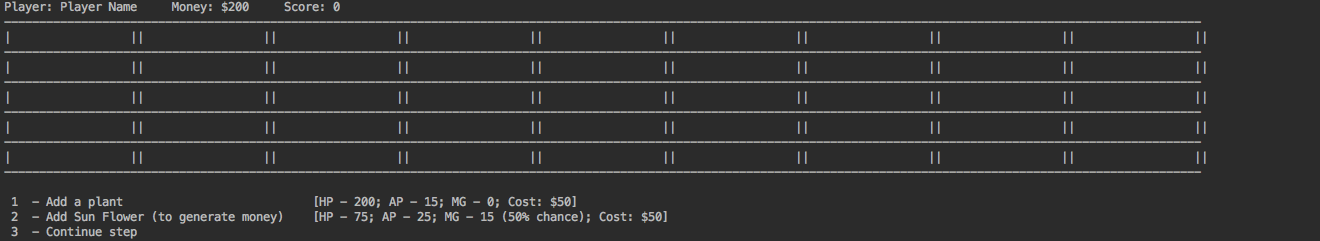
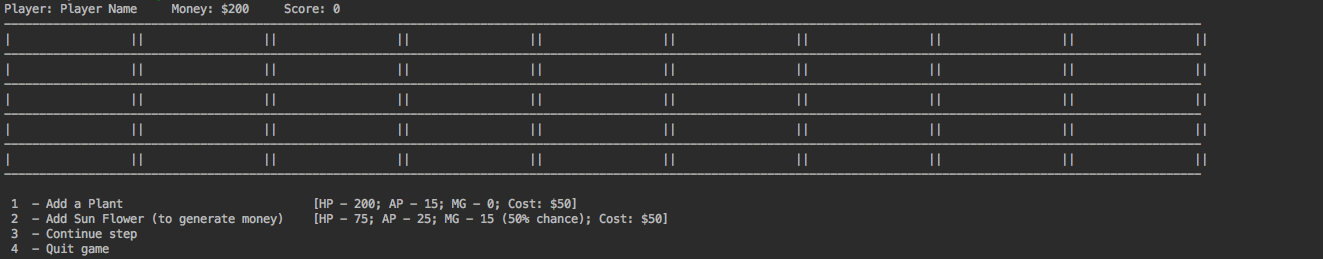
Read.me edited, quit message changed - Dmytro Sytnik

diff --git a/SouceCode/src/Game.java b/SouceCode/src/Game.java
@@ -53,7 +53,7 @@ public class Game {
                         System.out.println("Cannot add plant into this cell");
                     }
                 } else if (choice == 4){
-                    System.out.println("You quitted the game");
+                    System.out.println("You quit the game. Hope to see You soon.");
                     return;
                 }
                 else {

diff --git a/README.md b/README.md
@@ -51,7 +51,7 @@ Game continue until Plants will kill all Zombies (20) or at least one Zombie rea
     
     ![Start game](Documentation/images/GameStart.png)
     
-    * 1 - Add a plant (Adding fighting plant: **Health** 200; **Attack Power** 15; **Price** 50)
+    * 1 - Add a Plant (Adding fighting plant: **Health** 200; **Attack Power** 15; **Price** 50)
     
         When Player choose adding Plant, system will offer to specify where to place it:
         *  Enter row position (1 -> 5): eg. 1
@@ -61,7 +61,7 @@ Game continue until Plants will kill all Zombies (20) or at least one Zombie rea
             
     ![Board display 1](Documentation/images/BoardDisplay1.png)
         
-    * 2 - Add Sun Flower (Adding money-generator that cannot fight with zombies: **Health** 75; **Price** 50; **Money generates** 25 (50% chance per board update))
+    * 2 - Add Sun Flower (Adding money-generator Plant that cannot fight with zombies: **Health** 75; **Price** 50; **Money generates** 25 (50% chance per board update))
       
         When Player choose adding Sun Flower, system will offer to specify where to place it:
         *  Enter row position (1 -> 5): eg. 1
@@ -71,10 +71,15 @@ Game continue until Plants will kill all Zombies (20) or at least one Zombie rea
                 
     ![Board display 2](Documentation/images/BoardDisplay2.png)
     
-    * 3 - Play with no plants for now (Continue with existing plants - next move)
+    * 3 - Continue step (Continue with existing plants - next move)
     
-        When Player choose to play with no plants, the system will print empty board
+        When Player choose to play with no plants, the system will print current board
         
     ![Board display 3](Documentation/images/BoardDisplay3.png) 
 
+    * 4 - Quit Game (Ends the game)
+    
+        When Player choose to Quit the game, game will ended and system will print massage shown bellow.
+        
+    ![Quit game 3](Documentation/images/QuitGame.png) 
 3. The game will loop step 2. until Plants will kill all Zombies or at least one Zombie reaches the end of the board with no Plant on the last cell.
